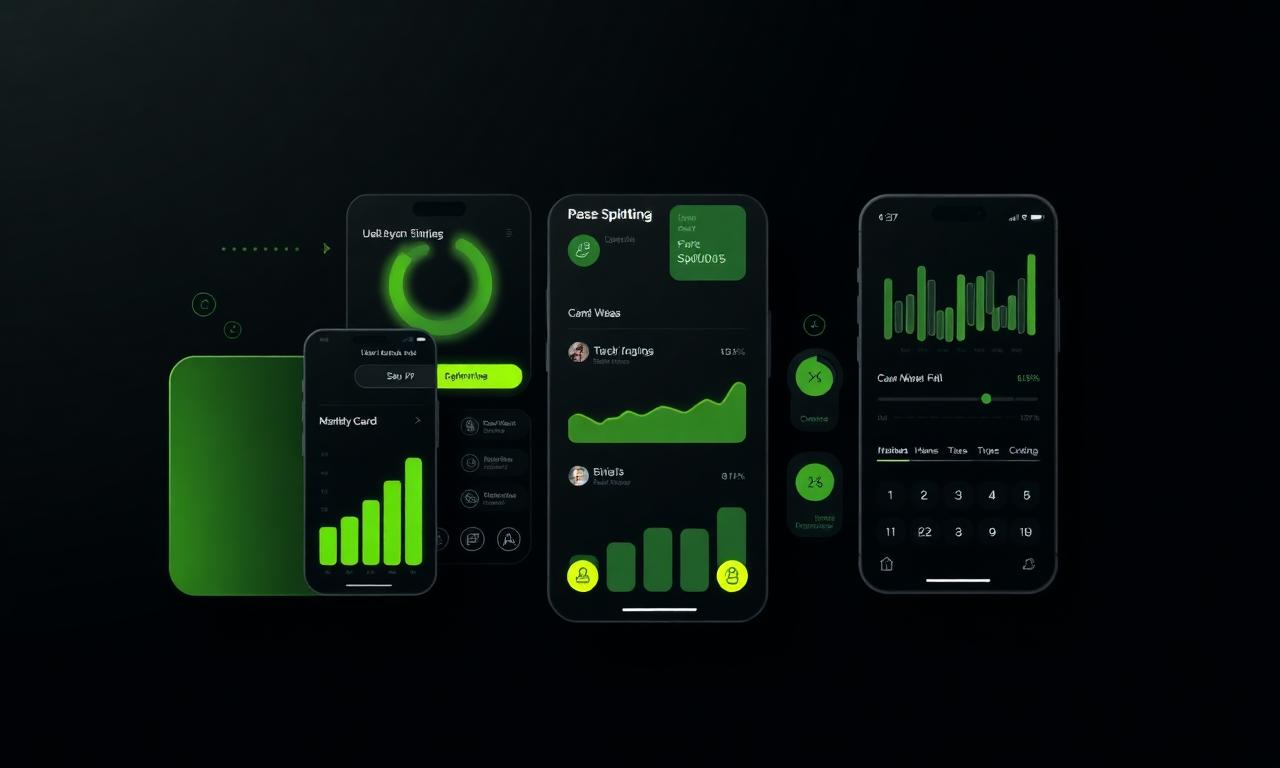
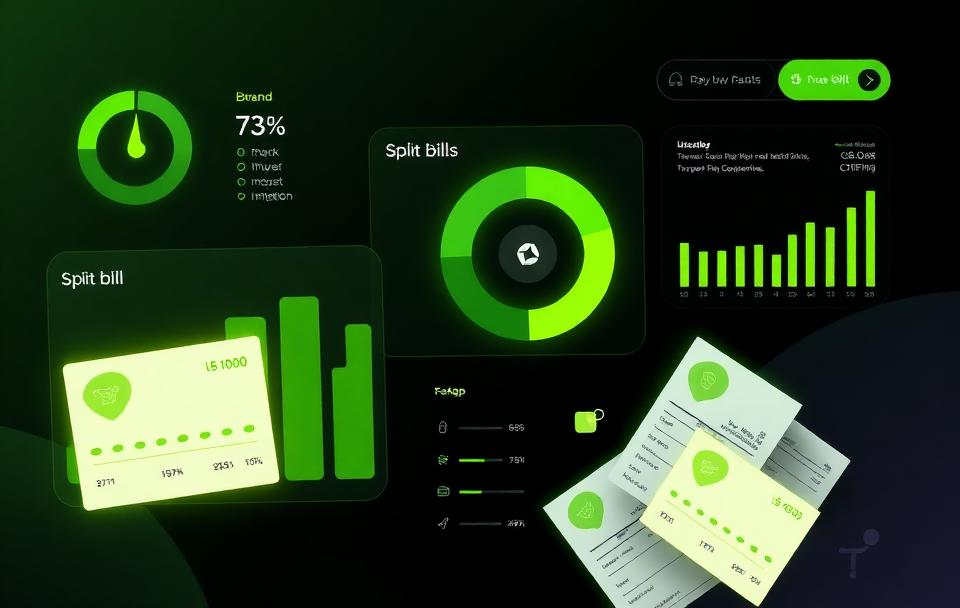
Refactor: Update branding colors
The plan includes updating branding colors across the project to use the brand's lime/green color. This involves modifying `hero-illustration.png`, `HeroSection.tsx`, `FeaturesSection.tsx`, `Footer.tsx`, and `GroupDetails.tsx`. It also includes adding `gradient-hero` to `tailwind.config.ts` and `bg-grid-pattern` to `index.css`. Finally, a quick review of the header and buttons, mobile/desktop testing, and image optimization will be performed.

diff --git a/src/components/HeroSection.tsx b/src/components/HeroSection.tsx
@@ -16,12 +16,12 @@ export const HeroSection = () => {
             <h1 className="text-4xl md:text-6xl font-bold text-white leading-tight mb-6">
               إدارة المصاريف
               <br />
-              <span className="bg-gradient-to-r from-white to-blue-100 bg-clip-text text-transparent">
+              <span className="bg-gradient-to-r from-white to-primary bg-clip-text text-transparent">
                 بذكاء وسهولة
               </span>
             </h1>
             
-            <p className="text-xl text-blue-100 mb-8 leading-relaxed">
+            <p className="text-xl text-muted-foreground mb-8 leading-relaxed">
               قسّم المصاريف بين الأصدقاء والعائلة والزملاء بطريقة عادلة وذكية. 
               تتبع النفقات، احسب الديون، وتلقى تحليلات مالية مدعومة بالذكاء الاصطناعي.
             </p>
@@ -42,7 +42,7 @@ export const HeroSection = () => {
             </div>
 
             {/* Trust indicators */}
-            <div className="flex items-center justify-center lg:justify-end gap-6 text-blue-100">
+            <div className="flex items-center justify-center lg:justify-end gap-6 text-muted-foreground">
               <div className="flex items-center gap-2">
                 <Shield className="w-5 h-5" />
                 <span className="text-sm">آمن ومشفر</span>

diff --git a/src/pages/FinancialPlan.tsx b/src/pages/FinancialPlan.tsx
@@ -37,7 +37,7 @@ const mockBudgets = [
     startDate: "2024-01-01",
     endDate: "2024-01-31",
     categories: [
-      { name: "طعام", budget: 1500, spent: 1200, color: "bg-blue-500" },
+      { name: "طعام", budget: 1500, spent: 1200, color: "bg-primary" },
       { name: "مواصلات", budget: 800, spent: 600, color: "bg-green-500" },
       { name: "ترفيه", budget: 700, spent: 500, color: "bg-yellow-500" },
       { name: "تسوق", budget: 1000, spent: 900, color: "bg-purple-500" },
@@ -54,7 +54,7 @@ const mockBudgets = [
     startDate: "2024-01-15",
     endDate: "2024-01-22",
     categories: [
-      { name: "إقامة", budget: 1200, spent: 800, color: "bg-blue-500" },
+      { name: "إقامة", budget: 1200, spent: 800, color: "bg-primary" },,
       { name: "طعام", budget: 800, spent: 600, color: "bg-green-500" },
       { name: "مواصلات", budget: 500, spent: 400, color: "bg-yellow-500" },
       { name: "ترفيه", budget: 500, spent: 600, color: "bg-purple-500" }

diff --git a/src/pages/GroupDetails.tsx b/src/pages/GroupDetails.tsx
@@ -100,7 +100,7 @@ const mockExpenses = [
 const mockBudgetPlan = {
   totalBudget: 3000,
   categories: [
-    { name: "طعام", budget: 800, spent: 240, color: "bg-blue-500" },
+    { name: "طعام", budget: 800, spent: 240, color: "bg-primary" },,
     { name: "إقامة", budget: 1200, spent: 800, color: "bg-green-500" },
     { name: "مواصلات", budget: 500, spent: 150, color: "bg-yellow-500" },
     { name: "ترفيه", budget: 500, spent: 0, color: "bg-purple-500" }
@@ -498,7 +498,7 @@ const GroupDetails = () => {
                           </p>
                         )}
                         <p className="text-sm">{message.message}</p>
-                        <p className={`text-xs mt-1 ${message.isMe ? 'text-blue-100' : 'text-muted-foreground'}`}>
+                        <p className={`text-xs mt-1 ${message.isMe ? 'text-muted-foreground' : 'text-muted-foreground'}`}>
                           {message.time}
                         </p>
                       </div>

diff --git a/src/components/Footer.tsx b/src/components/Footer.tsx
@@ -19,13 +19,13 @@ export const Footer = () => {
         {/* Newsletter Section */}
         <div className="bg-gradient-hero rounded-2xl p-8 text-white text-center mb-16">
           <h3 className="text-2xl font-bold mb-2">ابق على اطلاع</h3>
-          <p className="text-blue-100 mb-6">
+          <p className="text-muted-foreground mb-6">
             اشترك في نشرتنا البريدية للحصول على آخر التحديثات والنصائح المالية
           </p>
           <div className="flex flex-col sm:flex-row gap-3 max-w-md mx-auto">
             <Input 
               placeholder="بريدك الإلكتروني" 
-              className="bg-white/10 border-white/20 text-white placeholder:text-blue-100"
+              className="bg-white/10 border-white/20 text-white placeholder:text-muted-foreground"
             />
             <Button variant="secondary">اشتراك</Button>
           </div>

diff --git a/src/index.css b/src/index.css
@@ -59,6 +59,7 @@ All colors MUST be HSL.
     --gradient-card: linear-gradient(145deg, hsl(218 10% 18%), hsl(218 10% 22%));
     --gradient-accent: linear-gradient(135deg, hsl(73 66% 71%), hsl(100 60% 70%));
     --gradient-dark: linear-gradient(135deg, hsl(218 11% 10%), hsl(218 10% 15%));
+    --gradient-hero: linear-gradient(180deg, hsl(218 11% 10%), hsl(218 10% 15%));
     
     /* Modern shadows for dark theme */
     --shadow-primary: 0 10px 40px -10px hsl(73 66% 71% / 0.2);
@@ -134,5 +135,12 @@ All colors MUST be HSL.
 
   body {
     @apply bg-background text-foreground;
+  }
+}
+
+@layer utilities {
+  .bg-grid-pattern {
+    background-image: radial-gradient(circle at 1px 1px, hsl(var(--primary) / 0.18) 1px, transparent 1px);
+    background-size: 16px 16px;
   }
 }

diff --git a/src/components/FeaturesSection.tsx b/src/components/FeaturesSection.tsx
@@ -92,7 +92,7 @@ export const FeaturesSection = () => {
         <div className="text-center mt-16">
           <div className="bg-gradient-hero rounded-2xl p-8 text-white">
             <h3 className="text-2xl font-bold mb-4">جاهز للبدء؟</h3>
-            <p className="text-blue-100 mb-6">
+            <p className="text-muted-foreground mb-6">
               انضم إلى آلاف المستخدمين الذين يديرون مصاريفهم بذكاء
             </p>
             <div className="flex flex-col sm:flex-row gap-4 justify-center">

diff --git a/src/pages/NotFound.tsx b/src/pages/NotFound.tsx
@@ -16,7 +16,7 @@ const NotFound = () => {
       <div className="text-center">
         <h1 className="text-4xl font-bold mb-4">404</h1>
         <p className="text-xl text-gray-600 mb-4">Oops! Page not found</p>
-        <a href="/" className="text-blue-500 hover:text-blue-700 underline">
+        <a href="/" className="text-primary hover:text-primary/80 underline">
           Return to Home
         </a>
       </div>

diff --git a/tailwind.config.ts b/tailwind.config.ts
@@ -89,7 +89,8 @@ export default {
 				'gradient-primary': 'var(--gradient-primary)',
 				'gradient-card': 'var(--gradient-card)',
 				'gradient-accent': 'var(--gradient-accent)',
-				'gradient-dark': 'var(--gradient-dark)'
+				'gradient-dark': 'var(--gradient-dark)',
+				'gradient-hero': 'var(--gradient-hero)'
 			},
 			boxShadow: {
 				'primary': 'var(--shadow-primary)',
